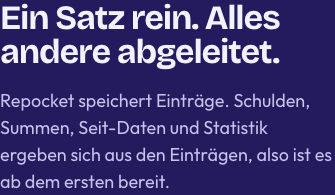
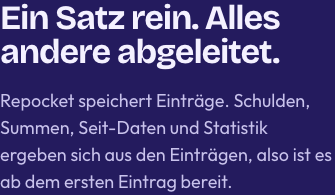
copy: say analytics and crash reports are the only data sent to us [repocket-site-1y6]
Entries sync to the person's private iCloud, so 'leave the device' was untrue. Also tightens the DE how-lead and the free card wording.

Bead: repocket-site-1y6

Changed region(s): [[0.3582, 0.8923, 0.6866, 0.9846]]

diff --git a/index.html b/index.html
@@ -123,7 +123,7 @@ footer{padding:40px 0 60px;border-top:1px solid rgba(36,27,94,.1);font-size:14px
 </div></section>
 
 <section id="how" class="dark"><div class="wrap">
- <div class="sec-h reveal"><h2><span data-l="en">One sentence in. Everything else derived.</span><span data-l="de">Ein Satz rein. Alles andere abgeleitet.</span></h2><p class="lead"><span data-l="en">Repocket stores entries. Debts, totals, since-dates and stats all fall out of the entries, so it is ready from the first one.</span><span data-l="de">Repocket speichert Einträge. Schulden, Summen, Seit-Daten und Statistik ergeben sich aus den Einträgen, also ist es ab dem ersten bereit.</span></p></div>
+ <div class="sec-h reveal"><h2><span data-l="en">One sentence in. Everything else derived.</span><span data-l="de">Ein Satz rein. Alles andere abgeleitet.</span></h2><p class="lead"><span data-l="en">Repocket stores entries. Debts, totals, since-dates and stats all fall out of the entries, so it is ready from the first one.</span><span data-l="de">Repocket speichert Einträge. Schulden, Summen, Seit-Daten und Statistik ergeben sich aus den Einträgen, also ist es ab dem ersten Eintrag bereit.</span></p></div>
  <div class="steps">
   <div class="step reveal"><span class="n">01</span><div class="ic"><svg width="24" height="24" viewBox="0 0 24 24" fill="none" stroke="#F4F1FF" stroke-width="2.2" stroke-linecap="round" stroke-linejoin="round"><path d="M4 12h16M13 5l7 7-7 7"/></svg></div><h3><span data-l="en">Log the borrow</span><span data-l="de">Leihe eintragen</span></h3><p><span data-l="en">Amount, paid from, should have come from. Pockets are created the first time you type them, so you start logging straight away.</span><span data-l="de">Betrag, bezahlt aus, hätte kommen sollen aus. Taschen entstehen beim ersten Tippen, du legst also sofort los.</span></p></div>
   <div class="step reveal"><span class="n">02</span><div class="ic"><svg width="24" height="24" viewBox="0 0 24 24" fill="none" stroke="#F4F1FF" stroke-width="2.2" stroke-linecap="round"><path d="M9 6h11M9 12h11M9 18h11M4.5 6h.01M4.5 12h.01M4.5 18h.01"/></svg></div><h3><span data-l="en">See who owes whom</span><span data-l="de">Sehen, wer wem schuldet</span></h3><p><span data-l="en">Two borrows and a partial return between the same pockets collapse into one line: Groceries owes Vacation €45.50, since Wednesday.</span><span data-l="de">Zwei Leihen und eine Teilrückzahlung zwischen denselben Taschen werden eine Zeile: Lebensmittel schuldet Urlaub 45,50 €, seit Mittwoch.</span></p></div>
@@ -143,7 +143,7 @@ footer{padding:40px 0 60px;border-top:1px solid rgba(36,27,94,.1);font-size:14px
 <section id="price" class="dark"><div class="wrap">
  <div class="sec-h reveal"><h2><span data-l="en">Free to start. Pay once for the rest.</span><span data-l="de">Gratis starten. Einmal zahlen für den Rest.</span></h2><p class="lead"><span data-l="en">Free with 3 pockets. €4.99 once adds unlimited pockets, widgets, Siri and stats. Your ledger stays either way.</span><span data-l="de">Gratis mit 3 Taschen. Ein Kauf für 4,99 € schaltet unbegrenzte Taschen, Widgets, Siri und Statistik frei. Dein Verzeichnis bleibt so oder so.</span></p></div>
  <div class="price">
-  <div class="pc reveal" style="background:rgba(255,255,255,.07);color:#F4F1FF"><span class="k" style="color:#C9C3EC"><span data-l="en">Free</span><span data-l="de">Gratis</span></span><b><span data-l="en">3 pockets</span><span data-l="de">3 Taschen</span></b><p style="color:#C9C3EC"><span data-l="en">The whole ledger, as long as you like: log borrows and returns, see what each pocket owes, settle, and export to CSV or JSON. It all stays on your iPhone and in your private iCloud.</span><span data-l="de">Das ganze Verzeichnis, so lange du willst: Leihen und Rückzahlungen eintragen, sehen, was jede Tasche schuldet, ausgleichen und als CSV oder JSON exportieren. Alles bleibt auf deinem iPhone und in deiner privaten iCloud.</span></p></div>
+  <div class="pc reveal" style="background:rgba(255,255,255,.07);color:#F4F1FF"><span class="k" style="color:#C9C3EC"><span data-l="en">Free</span><span data-l="de">Gratis</span></span><b><span data-l="en">3 pockets</span><span data-l="de">3 Taschen</span></b><p style="color:#C9C3EC"><span data-l="en">The whole ledger, as long as you like: log borrows and returns, see what each pocket owes, settle, and export to CSV or JSON. The whole ledger stays on your iPhone and in your private iCloud.</span><span data-l="de">Das ganze Verzeichnis, so lange du willst: Leihen und Rückzahlungen eintragen, sehen, was jede Tasche schuldet, ausgleichen und als CSV oder JSON exportieren. Das ganze Verzeichnis bleibt auf deinem iPhone und in deiner privaten iCloud.</span></p></div>
   <div class="pc gold reveal"><span class="k"><span data-l="en">Unlock once</span><span data-l="de">Einmal freischalten</span></span><div class="prow"><b><span data-l="en">€4.99</span><span data-l="de">4,99 €</span></b><span class="tag"><span data-l="en">One-time purchase</span><span data-l="de">Einmaliger Kauf</span></span></div><ul><li><span class="tick" aria-hidden="true"><svg width="12" height="12" viewBox="0 0 24 24" fill="none" stroke="#fff" stroke-width="3.4" stroke-linecap="round" stroke-linejoin="round"><path d="M6 12l4 4 8-9"/></svg></span><span data-l="en">Home Screen widgets</span><span data-l="de">Widgets auf dem Home-Bildschirm</span></li><li><span class="tick" aria-hidden="true"><svg width="12" height="12" viewBox="0 0 24 24" fill="none" stroke="#fff" stroke-width="3.4" stroke-linecap="round" stroke-linejoin="round"><path d="M6 12l4 4 8-9"/></svg></span><span data-l="en">Siri and Shortcuts</span><span data-l="de">Siri und Kurzbefehle</span></li><li><span class="tick" aria-hidden="true"><svg width="12" height="12" viewBox="0 0 24 24" fill="none" stroke="#fff" stroke-width="3.4" stroke-linecap="round" stroke-linejoin="round"><path d="M6 12l4 4 8-9"/></svg></span><span data-l="en">Stats</span><span data-l="de">Statistik</span></li><li><span class="tick" aria-hidden="true"><svg width="12" height="12" viewBox="0 0 24 24" fill="none" stroke="#fff" stroke-width="3.4" stroke-linecap="round" stroke-linejoin="round"><path d="M6 12l4 4 8-9"/></svg></span><span data-l="en">Unlimited pockets</span><span data-l="de">Unbegrenzte Taschen</span></li></ul></div>
   <div class="pc reveal" style="background:rgba(255,255,255,.07);color:#F4F1FF"><span class="k" style="color:#C9C3EC"><span data-l="en">Need a fourth pocket?</span><span data-l="de">Eine vierte Tasche?</span></span><b><span data-l="en">Archive or unlock</span><span data-l="de">Archivieren oder freischalten</span></b><p style="color:#C9C3EC"><span data-l="en">Archive a pocket once its debts are settled, and its slot opens for a new pocket. If you have a read-only pocket, that one takes the slot. Or unlock to lift the cap.</span><span data-l="de">Archiviere eine Tasche, sobald ihre Schulden ausgeglichen sind, dann wird ihr Platz für eine neue Tasche frei. Hast du eine schreibgeschützte Tasche, rückt diese nach. Oder schalte frei, um die Grenze aufzuheben.</span></p></div>
  </div>

diff --git a/press.html b/press.html
@@ -13,11 +13,11 @@
 @media(max-width:900px){nav .wrap{gap:12px}.brand-lockup{flex-direction:column;align-items:flex-start;gap:6px}}</style></head><body>
 <nav><div class="wrap"><div class="brand-lockup"><a class="brand" href="index.html"><img src="assets/mark.svg" alt="">Repocket</a><a class="mugo" href="https://mugoworks.com"><img src="assets/mark-on-light.svg" width="13" height="13" alt="mugo works mark"><span class="mugo-label">BY MUGO WORKS</span></a></div></div></nav>
 <main class="wrap"><div data-l="en"><h1>Press kit</h1><p><b>Repocket</b> is an iPhone app that tracks money borrowed between a person's own bank pockets (N26 Spaces, DKB Unterkonten, Revolut Vaults, Monzo Pots). Log a borrow in one sentence; Repocket derives who owes whom and what to move back. Free with 3 pockets; a one-time €4.99 unlock adds unlimited pockets, widgets, Siri and stats. Entries live on the iPhone and in the person's private iCloud.</p>
-<h2>Facts</h2><ul><li>Platform: iPhone, iOS 18+.</li><li>Price: free with 3 active pockets and the whole ledger. €4.99 once adds unlimited pockets, Home Screen widgets, Siri and Shortcuts, and Stats.</li><li>Privacy: entries live on your iPhone and in your private iCloud; anonymous, opt-out usage analytics and crash reports are the only data that leave the device.</li><li>Maker: mugoworks, Germany.</li></ul>
+<h2>Facts</h2><ul><li>Platform: iPhone, iOS 18+.</li><li>Price: free with 3 active pockets and the whole ledger. €4.99 once adds unlimited pockets, Home Screen widgets, Siri and Shortcuts, and Stats.</li><li>Privacy: entries live on your iPhone and in your private iCloud; anonymous, opt-out usage analytics and crash reports are the only data sent to us.</li><li>Maker: mugoworks, Germany.</li></ul>
 <h2>Boilerplate</h2><p>Repocket is the ledger for what you borrowed from yourself. You split money into pockets at the bank, then pay for groceries with the vacation card. The bank records one card; Repocket records the debt between your pockets and tells you what to move back.</p>
 <h2>Assets</h2><ul><li><a href="assets/mark.svg">App icon (SVG)</a></li><li>App Store screenshots: on request</li><li>Fonts: Bricolage Grotesque, Outfit. Colours: ink #241B5E, coral #FF5C39, ground #F4F1FF.</li></ul>
 <h2>Contact</h2><p><a href="mailto:hello@getrepocket.com">hello@getrepocket.com</a></p></div><div data-l="de"><h1>Pressematerial</h1><p><b>Repocket</b> ist eine iPhone-App, die Geld verfolgt, das zwischen den eigenen Bank-Taschen geliehen wurde (N26 Spaces, DKB Unterkonten, Revolut Vaults, C24 Pockets). Eine Leihe in einem Satz eintragen; Repocket leitet ab, wer wem was schuldet und was zurück muss. Gratis mit 3 Taschen; ein einmaliger Kauf für 4,99 € schaltet unbegrenzte Taschen, Widgets, Siri und Statistik frei. Einträge liegen auf dem iPhone und in der privaten iCloud.</p>
-<h2>Fakten</h2><ul><li>Plattform: iPhone, iOS 18+.</li><li>Preis: gratis mit 3 aktiven Taschen und dem ganzen Verzeichnis. Ein Kauf für 4,99 € schaltet unbegrenzte Taschen, Widgets auf dem Home-Bildschirm, Siri und Kurzbefehle sowie Statistik frei.</li><li>Datenschutz: Einträge liegen auf deinem iPhone und in deiner privaten iCloud; anonyme, abschaltbare Nutzungsanalyse und Absturzberichte sind die einzigen Daten, die das Gerät verlassen.</li><li>Hersteller: mugoworks, Deutschland.</li></ul>
+<h2>Fakten</h2><ul><li>Plattform: iPhone, iOS 18+.</li><li>Preis: gratis mit 3 aktiven Taschen und dem ganzen Verzeichnis. Ein Kauf für 4,99 € schaltet unbegrenzte Taschen, Widgets auf dem Home-Bildschirm, Siri und Kurzbefehle sowie Statistik frei.</li><li>Datenschutz: Einträge liegen auf deinem iPhone und in deiner privaten iCloud; anonyme, abschaltbare Nutzungsanalyse und Absturzberichte sind die einzigen Daten, die an uns gehen.</li><li>Hersteller: mugoworks, Deutschland.</li></ul>
 <h2>Boilerplate</h2><p>Repocket merkt sich, was du dir selbst geliehen hast. Du teilst Geld bei der Bank in Taschen auf und bezahlst dann den Einkauf mit der Urlaubskarte. Die Bank sieht eine Karte; Repocket merkt sich die Schuld zwischen deinen Taschen und sagt dir, was zurück muss.</p>
 <h2>Material</h2><ul><li><a href="assets/mark.svg">App-Icon (SVG)</a></li><li>App-Store-Screenshots: auf Anfrage</li><li>Schriften: Bricolage Grotesque, Outfit. Farben: Tinte #241B5E, Koralle #FF5C39, Grund #F4F1FF.</li></ul>
 <h2>Kontakt</h2><p><a href="mailto:hello@getrepocket.com">hello@getrepocket.com</a></p></div></main>

diff --git a/privacy.html b/privacy.html
@@ -1,4 +1,4 @@
-<!doctype html><html lang="en" data-lang="en"><head><meta charset="utf-8"><meta name="viewport" content="width=device-width,initial-scale=1"><title>Privacy policy · Repocket</title><meta property="og:title" content="Privacy · Repocket"><meta property="og:description" content="How Repocket handles your data: entries stay on your iPhone and in your private iCloud. Anonymous usage analytics and crash reports are the only data that leave the device."><meta property="og:image" content="https://getrepocket.com/assets/og.png"><meta property="og:image:width" content="1200"><meta property="og:image:height" content="630"><meta property="og:url" content="https://getrepocket.com/privacy.html"><meta property="og:type" content="website"><meta property="og:site_name" content="Repocket"><meta name="twitter:card" content="summary_large_image"><meta name="twitter:title" content="Privacy · Repocket"><meta name="twitter:description" content="How Repocket handles your data: entries stay on your iPhone and in your private iCloud. Anonymous usage analytics and crash reports are the only data that leave the device."><meta name="twitter:image" content="https://getrepocket.com/assets/og.png"><link rel="icon" href="assets/mark.svg">
+<!doctype html><html lang="en" data-lang="en"><head><meta charset="utf-8"><meta name="viewport" content="width=device-width,initial-scale=1"><title>Privacy policy · Repocket</title><meta property="og:title" content="Privacy · Repocket"><meta property="og:description" content="How Repocket handles your data: entries stay on your iPhone and in your private iCloud. Anonymous usage analytics and crash reports are the only data sent to us."><meta property="og:image" content="https://getrepocket.com/assets/og.png"><meta property="og:image:width" content="1200"><meta property="og:image:height" content="630"><meta property="og:url" content="https://getrepocket.com/privacy.html"><meta property="og:type" content="website"><meta property="og:site_name" content="Repocket"><meta name="twitter:card" content="summary_large_image"><meta name="twitter:title" content="Privacy · Repocket"><meta name="twitter:description" content="How Repocket handles your data: entries stay on your iPhone and in your private iCloud. Anonymous usage analytics and crash reports are the only data sent to us."><meta name="twitter:image" content="https://getrepocket.com/assets/og.png"><link rel="icon" href="assets/mark.svg">
 <style>@font-face{font-family:"Bricolage Grotesque";font-style:normal;font-weight:700;font-display:swap;src:url("assets/fonts/BricolageGrotesque-700.woff2") format("woff2")}
 @font-face{font-family:"Bricolage Grotesque";font-style:normal;font-weight:800;font-display:swap;src:url("assets/fonts/BricolageGrotesque-800.woff2") format("woff2")}
 @font-face{font-family:"Outfit";font-style:normal;font-weight:400;font-display:swap;src:url("assets/fonts/Outfit-400.woff2") format("woff2")}
